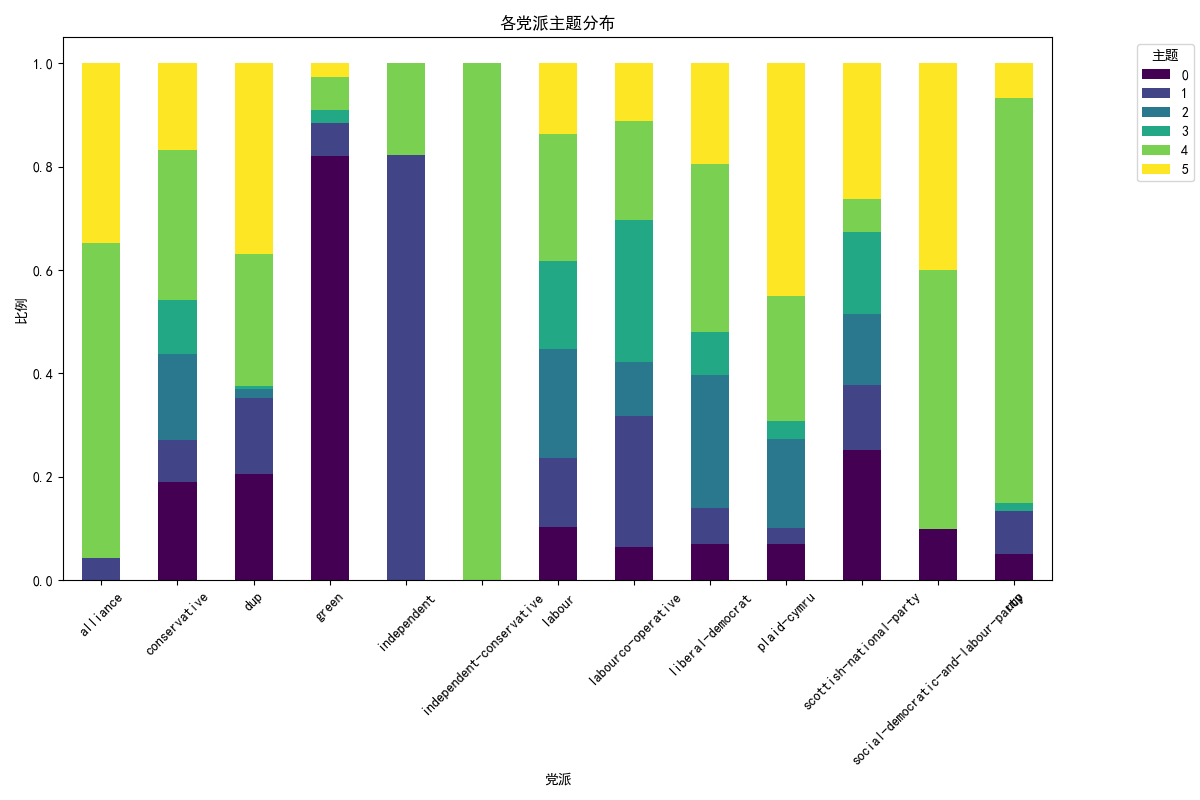
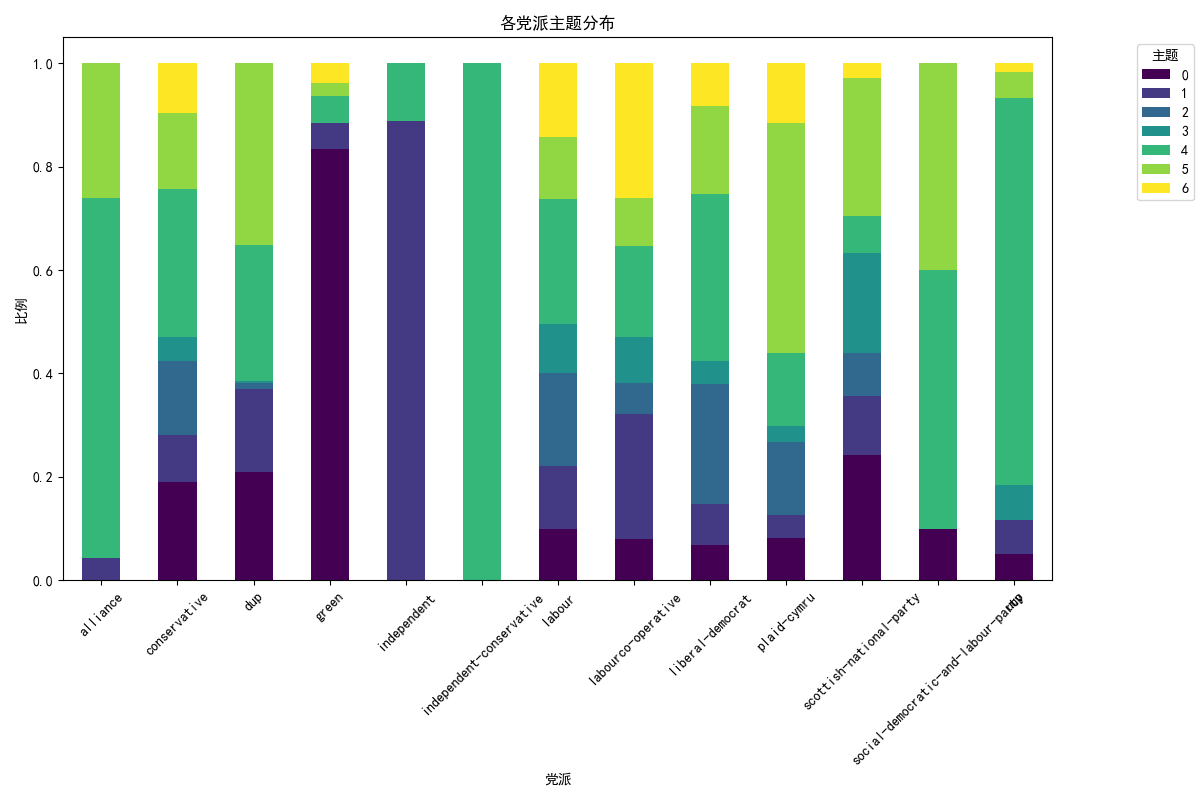
Better topic number

diff --git a/lda_main.py b/lda_main.py
@@ -272,7 +272,7 @@ if __name__ == '__main__':
             party_col='motion_party', 
             prefix='lda',  
             result_folder=result_folder,
-            num_topics=6
+            num_topics=7
         )
         
         print("\n程序完成！")
